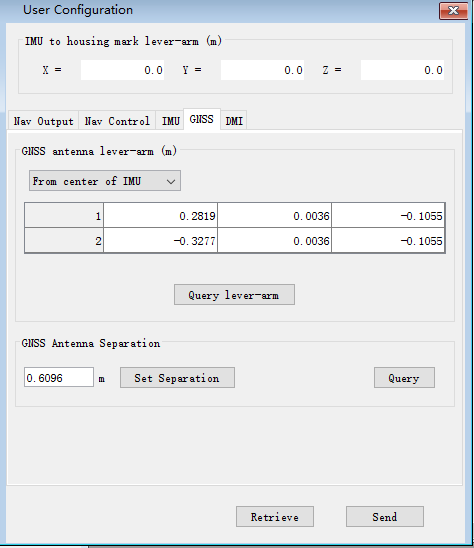
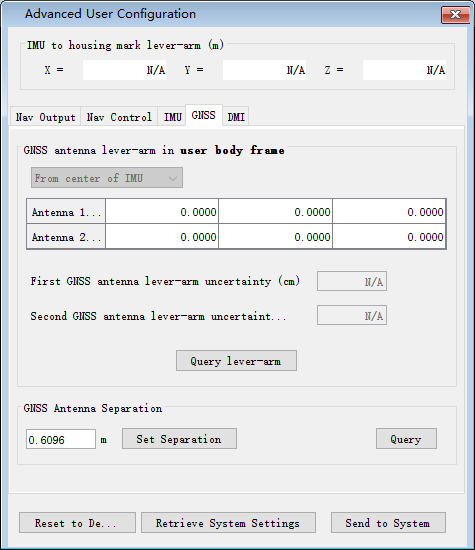
Update manual new file:   media/rover/Choose_output_rate_and_output_messages.PNG new file:   media/rover/Firmware_update_menu_bk.png modified:   media/rover/GNSS_configuration_tab.png new file:   media/rover/GNSS_configuration_tab_bk.png modified:   media/rover/IMU_configuration_tab.png new file:   

diff --git a/user_outline.rst b/user_outline.rst
@@ -49,8 +49,8 @@ At the bottom-right corner of the interface, there are four indicators for the s
 
    Figure 3: Subsystems status indicators
 
-4.2. Product ID and Engine Version
-~~~~~~~~~~~~~~~~~~~~~~~~~~~~~~~~~~~
+4.2. Product ID, Engine and Firmware Version
+~~~~~~~~~~~~~~~~~~~~~~~~~~~~~~~~~~~~~~~~~~~~~
 
 At the bottom-left corner of the interface, the user can see the product ID and the engine version of the system as shown in Figure 4.
 
@@ -87,7 +87,8 @@ GNSS signal status dialog (shown in Figure 6) displays the satellite signal stre
 
 IMU data dialog (show in Figure 7) displays the current acceleration and rotation rate in polyline graphs. If the IMU data doesn’t show up, the user can click the [Turn on IMU data] button to enable the output of the raw IMU data.
 
-The direction of the axes of an IMU can be identified using the accelerometer signal. When an accelerometer is placed in upward direction on a level surface, its output should be approximately 9.8 m/s2. On the other hand, if it is place in downward direction, the output should be -9.8m/s2. The positive direction of all three axes of an IMU can be identified this way.
+The direction of the axes of an IMU can be identified using the accelerometer signal. When an accelerometer is placed in upward direction on a level surface, its output should be approximately 9.8 m/s2. On the other hand, if it is place in downward direction, the output should be -9.8m/s2. Hence, for the plot in Figure 7, the positive
+z-axis is positing downward. The positive direction of all three axes of an IMU can be identified this way.
 
 4.6. Trajectory
 ~~~~~~~~~~~~~~~~~~~~~~~~~~~~~~~~~~~
@@ -109,21 +110,66 @@ Trajectory view dialog (shown in Figure 8) displays the current trajectory. The 
 5. User Configuration
 ------------------------
 
-The user can control the behavior of the navigator using the control software. After connecting to the system, choose “System > User Configure” from the menu (shown in Figure 9).
+To get accurate navigation data, the user needs to configure several parameters in the navigation system. The control software provides a basic interface for necessary setup, and also an advanced interface for more detailed configuration.
 
-.. figure:: media/rover/User_configuration_menu.png
+5.1. Basic User Configuration
+~~~~~~~~~~~~~~~~~~~~~~~~~~~~~~~~
+
+Basic user configuration dialog is used to set up the orientation of the navigation system relative to the vehicle and the position of the antennas. Once these are set up, the system can output correct position, velocity and attitude information of the vehicle.
+
+Basic user configuration can be opened by choosing “System > Basic User Configuration”. The interface is shown in Figure 9.
+
+.. figure:: media/rover/Set_up_the_orientation_of_the_navigation_system.PNG
    :scale: 100 %
    :align: center
 
-   Figure 9: User configuration menu
+   Figure 9: Set up the orientation of the navigation system
 
-5.1. Output Control
-~~~~~~~~~~~~~~~~~~~~~~~~~~~~
+The first step is to set up the orientation of the sensor relative to the vehicle. The user first chooses the direction of the IMU X-axis relative to the user body frame. And then choose the direction of the IMU Y and Z.
 
-The user can do the followings in the navigation output control tab shown in Figure 10:
+For a vehicle, the user body frame is defined in Figure 10. And IMU frame is marked on the case.
+
+.. figure:: media/rover/User_body_frame_definition.PNG
+   :scale: 100 %
+   :align: center
+
+   Figure 10: User body frame definition
+
+Next step is to setup the position of the antennas (shown in Figure 11). The user needs to measure the coordinates of the two antennas in the user body frame with the origin at the case top center. And then input the coordinates into the dialog. The user also needs to measure the distance between two antenna centers and input the measurement into the dialog.
+
+.. figure:: media/rover/Set_up_the_position_of_the_two_antennas.PNG
+   :scale: 100 %
+   :align: center
+
+   Figure 11: Set up the position of the two antennas
+
+The final step is to choose the max output rate and turn on/off output messages (shown in Figure 12). Max output rate is the output rate of the compact navigation message (message 13). The user can adjust the data rate of this message. The detailed definition and rate of all messages can be found in Aceinna Reference Manual.
+
+.. figure:: media/rover/Choose_output_rate_and_output_messages.PNG
+   :scale: 100 %
+   :align: center
+
+   Figure 12: Choose output rate and output messages
+
+5.2. Advanced User Configuration
+~~~~~~~~~~~~~~~~~~~~~~~~~~~~~~~~~
+
+Advanced user configuration dialog contains more detailed configurations of the system. To open the dialog, the user chooses “System > User Configure” from the menu (shown in Figure 13). The available configurations are shown below. 
+
+.. figure:: media/rover/User_configuration_menu.PNG
+   :scale: 100 %
+   :align: center
+
+   Figure 13: User configuration menu
+
+5.2.1. Output Control
+>>>>>>>>>>>>>>>>>>>>>>>>
+
+The user can do the followings in the navigation output control tab shown in Figure 14:
 
 - Specify the navigation output position. The user can choose from the center of the IMU or the cross-mark on top of the IMU housing.
 - If the static position pinning is enabled, the system will output a fixed position during a static period detected by the GNSS. Note that there is a chance that the system can miss the detection if the signal quality becomes weak.
+- Specify the smooth transition interval to RTK_FIXED.
 - Choose ICD messages for output. Pay specific attention when choosing high-rate outputs as outputting multiple high-rate messages can saturate the communication port.
 - Check the current output position offset and whether the static position pinning is enabled in the system with the [Query] button.
 
@@ -131,12 +177,12 @@ The user can do the followings in the navigation output control tab shown in Fig
    :scale: 100 %
    :align: center
 
-   Figure 10: Navigation output control tab
+   Figure 14: Navigation output control tab
 
-5.2. Navigation Control
-~~~~~~~~~~~~~~~~~~~~~~~~~~~~
+5.2.2. Navigation Control
+>>>>>>>>>>>>>>>>>>>>>>>>>>>>>
 
-The user can control the behavior of the navigation in the tab shown in Figure 11.
+The user can control the behavior of the navigation in the tab shown in Figure 15.
 
 The user can enable initialization of heading from the GNSS velocity. To activate this option, the x-axis of the user body frame must be aligned with the forward direction of the vehicle. See “Install Parameters” tab to set the transformation from the IMU frame to the user body frame. Also, the minimum speed for the heading initialization can be specified.
 
@@ -146,12 +192,12 @@ The navigation error keeps growing if no aiding source is available. The system 
    :scale: 100 %
    :align: center
 
-   Figure 11: Navigation control tab
+   Figure 15: Navigation control tab
 
-5.3. IMU
-~~~~~~~~~~~~~~~~~~~~~~~~~~~~
+5.2.3. IMU Setup
+>>>>>>>>>>>>>>>>>>>>>
 
-In the “IMU” tab (shown in Figure 12), the user can do the followings :
+In the “IMU” tab (shown in Figure 16), the user can do the followings :
 
 - Specify the matrix for the transformation from the IMU frame to the user body frame. Please refer to the detailed  `Transformation Matrix <ref_outline.html#the-imu-frame-and-the-body-frame>`_ in reference manual.
 
@@ -161,14 +207,12 @@ In the “IMU” tab (shown in Figure 12), the user can do the followings :
    :scale: 100 %
    :align: center
 
-   Figure 12: IMU configuration tab
+   Figure 16: IMU configuration tab
 
-5.4. GNSS
-~~~~~~~~~~~~~~~~~~~~~~~~~~~~
+5.2.4. GNSS Setup
+>>>>>>>>>>>>>>>>>>>>>>>
 
-Note that the lever-arms to be entered shall be in meters from the cross-mark on top of the IMU housing to each antenna’s phase center in the user body frame.
-
-In the “GNSS” tab (shown in Figure 13), the user can do the followings :
+In the “GNSS” tab (shown in Figure 17), the user can do the followings :
 
 - Set the lever-arms of the GNSS antennas. Note that the lever-arms to be entered shall be in meters from the cross-mark on top of the IMU housing to the antennas phase center in the user body frame.
 - Set the separation between two GNSS antennas, which will aid the carrier-phase ambiguity resolution for the attitude determination.
@@ -179,12 +223,12 @@ In the “GNSS” tab (shown in Figure 13), the user can do the followings :
    :scale: 100 %
    :align: center
 
-   Figure 13: GNSS configuration tab
+   Figure 17: GNSS configuration tab
 
 6. NTRIP Client 
 ------------------------
 
-The user can configure the NTRIP client settings using the NTRIP Client settings dialog (shown in Figure 14). To open the dialog, choose “System > NTRIP Client” from the menu shown in Figure 15. After all information is entered, press the [Set] button to configure the NTRIP client information. After seeing a message box with “Configuration finished”, restart the system to use the new NTRIP client settings. The user can also [Query] the current NTRIP client settings of the system. To get the settings, click the [Query] button in the NTRIP Client dialog and the information will show up.
+The user can configure the NTRIP client settings using the NTRIP Client settings dialog (shown in Figure 18). To open the dialog, choose “System > NTRIP Client” from the menu shown in Figure 19. After all information is entered, press the [Set] button to configure the NTRIP client information. After seeing a message box with “Configuration finished”, restart the system to use the new NTRIP client settings. The user can also [Query] the current NTRIP client settings of the system. To get the settings, click the [Query] button in the NTRIP Client dialog and the information will show up.
 
 If user use "rtk2go.com" as server, the default password is "BETATEST".
 
@@ -194,30 +238,28 @@ Previous NTRIP settings will be stored in the table below. The user can reuse pr
    :scale: 100 %
    :align: center
 
-   Figure 14: NTRIP client settings dialog
+   Figure 18: NTRIP client settings dialog
 
 .. figure:: media/rover/NTRIP_Client_menu.png
    :scale: 100 %
    :align: center
 
-   Figure 15: NTRIP Client menu
+   Figure 19: NTRIP Client menu
 
 7. Firmware Update 
 ------------------------
-
-The user can update the firmware of the system by uploading the latest firmware file provided by Aceinna. To upload the firmware file, choose “System > Firmware Update” (shown in Figure 16). In the file selection dialog shown in Figure 17, browse the firmware file and click the [Upload] button. Firmware file upload will take a few minutes. Please wait until the “Firmware Update finished” message shows up. The user can see the current progress at the bottom. To cancel the firmware update, close the “Upload File” dialog.
 
 .. figure:: media/rover/Firmware_update_menu.png
    :scale: 100 %
    :align: center
 
-   Figure 16: Firmware update menu
+   Figure 20: Firmware update menu
 
 .. figure:: media/rover/Firmware_file_selection.png
    :scale: 100 %
    :align: center
 
-   Figure 17: Firmware file selection
+   Figure 21: Firmware file selection
 
 8. Tools
 ------------------------
@@ -231,18 +273,18 @@ The user can log binary data from the system using the Export dialog by choosing
 
 Before logging, make sure that the software has opened the right port and the status of the subsystems IMU, GNSS, and PPS are on at the bottom-right hand corner.
 
-To choose a folder to save the data, click the [Browse] button. To log the data, click [Start Export] button in Figure 18. To finish logging, click the [Stop Export] button then a message about the saved data file name will show up. The file name convention is yyyy_mm_dd_HH_MM_SS.dat, e.g. 2018_02_09_02_36_34.dat.
+To choose a folder to save the data, click the [Browse] button. To log the data, click [Start Export] button in Figure 22. To finish logging, click the [Stop Export] button then a message about the saved data file name will show up. The file name convention is yyyy_mm_dd_HH_MM_SS.dat, e.g. 2018_02_09_02_36_34.dat.
 
 .. figure:: media/rover/Data_export_dialog.png
    :scale: 100 %
    :align: center
 
-   Figure 18: Data export dialog
+   Figure 22: Data export dialog
 
 8.2. Decode Data
 ~~~~~~~~~~~~~~~~~~~~~~~~~~~~
 
-The user can decode the logged data using the decoder provided by the control software. The decoder (shown in Figure 19) is available by choosing “Tools > Decode” menu. To decode a file, use the [Browse] button to find the file for decoding and then press the [Decode] button. Usually, the decode takes a few seconds to finish. For a large file, it may take up to a minute. Please wait until it is finished.
+The user can decode the logged data using the decoder provided by the control software. The decoder (shown in Figure 23) is available by choosing “Tools > Decode” menu. To decode a file, use the [Browse] button to find the file for decoding and then press the [Decode] button. Usually, the decode takes a few seconds to finish. For a large file, it may take up to a minute. Please wait until it is finished.
 
 The decoded results will be stored in the same folder as the data files and consist of three files: *kf.txt, *nav.txt and *.kml. The *kf.txt file stores Kalman Filter message. The *nav.txt file stores the high-rate compact navigation messages. Lastly,*.kml file stores the trajectory that can be viewed in Google Earth software.
 
@@ -254,48 +296,66 @@ The user can also set the output decimation rate to adjust the density of the po
    :scale: 100 %
    :align: center
 
-   Figure 19: Data decode dialog
+   Figure 23: Data decode dialog
 
 8.3. Zero Velocity Update
 ~~~~~~~~~~~~~~~~~~~~~~~~~~~~
 
-The user can send Zero Velocity Update (ZUPT) messages when the vehicle is not moving. Specifically, this will improve the navigation system where the GNSS signal is degraded. The user can set and send this message using the Zero Velocity Update dialog at the “Tools > Zero Velocity Update” menu (shown in Figure 20). After setting the horizontal and vertical standard deviation, click [Activate] button to keep sending the message containing these two values. Click [Deactivate] button to stop sending. If both values are set to zero, the message cannot be sent.
+The user can send Zero Velocity Update (ZUPT) messages when the vehicle is not moving. Specifically, this will improve the navigation system where the GNSS signal is degraded. The user can set and send this message using the Zero Velocity Update dialog at the “Tools > Zero Velocity Update” menu (shown in Figure 24). After setting the horizontal and vertical standard deviation, click [Activate] button to keep sending the message containing these two values. Click [Deactivate] button to stop sending. If both values are set to zero, the message cannot be sent.
 
 .. figure:: media/rover/Zero_Velocity_Update_dialog.png
    :scale: 100 %
    :align: center
 
-   Figure 20: Zero Velocity Update dialog
+   Figure 24: Zero Velocity Update dialog
 
 8.4. Static Heading Event
 ~~~~~~~~~~~~~~~~~~~~~~~~~~~~
 
-The user can send a static heading event message to initialize the inertial navigator when the position is available from the GNSS receivers but the heading initialization has difficulties due to degraded GNSS signals. To send the message, the user can use the Static Heading Event dialog at the “Tools > Static Heading Event” menu (shown in Figure 21). After setting the heading, ZUPT RMS, and heading RMS, click [Activate] button to keep sending the message containing these values. Click [Deactivate] button to stop sending. If both of the ZUPT RMS, and heading RMS are set to zero, the message cannot be sent.
+The user can send a static heading event message to initialize the inertial navigator when the position is available from the GNSS receivers but the heading initialization has difficulties due to degraded GNSS signals. To send the message, the user can use the Static Heading Event dialog at the “Tools > Static Heading Event” menu (shown in Figure 25). After setting the heading, ZUPT RMS, and heading RMS, click [Activate] button to keep sending the message containing these values. Click [Deactivate] button to stop sending. If both of the ZUPT RMS, and heading RMS are set to zero, the message cannot be sent.
 
 .. figure:: media/rover/Static_Heading_Event_dialog.png
    :scale: 100 %
    :align: center
 
-   Figure 21: Static Heading Event dialog
+   Figure 25: Static Heading Event dialog
+
+8.5. Static Geo-Pose Event
+~~~~~~~~~~~~~~~~~~~~~~~~~~~~
+
+The user can send a static geo-pose event message to initialize or aid the inertial navigation system when GNSS signals are not available. The static geo-pose event can be opened by choosing “Tools > Static Geo-Pose Event” menu (shown in Figure 26). 
+
+The user needs to input the known position and attitude information. And then click [Activate] button to keep sending these values to aid the navigation system. Click [Deactivate] button to stop sending. 
+
+.. figure:: media/rover/Static_Geo_Pose_Event_Dialog.png
+   :scale: 100 %
+   :align: center
+
+   Figure 26 Static Geo-Pose Event Dialog
+
+8.6. Heading Initialization using an External Sensor
+~~~~~~~~~~~~~~~~~~~~~~~~~~~~
+
+The heading can be initialized using the NMEA message “$HEHDT” which could be generated by other sensors in the user’s vehicle. To use this initialization method, the output port of the user’s sensor needs to be connected to one of the input ports of the Aceinna-Nav system; either UART0 or Ethernet. To enforce this initialization method, please make sure to turn off the option initializing the heading from the GNSS velocity; see Figure 15. 
 
 9. Internal Data Download
 ---------------------------
 
-The rover station system stores the raw sensor data and navigation data, and the file naming convention as follows:
+The system internally stores the raw sensor data and navigation data, of which the naming convention is as follows:
 
 - Raw sensor data: raw_wwww_ssssss.dat
 - Navigation data: nav_wwww_ssssss.dat
 
 Where “wwww” and “ssssss” corresponding to the GPS week number and seconds of the week at the start of the mission.
 
-User could download the internal data using any ftp client following the next steps:
+User can download the internal data using any FTP client, following the next steps:
 
 - Set the computer Ethernet IP address as 192.168.100.xxx where xxx could be any number from 2 to 254, except 97, because the address 192.168.100.97 used as the rover ip address.
     .. figure:: media/rover/ip_setting.png
        :scale: 45 %
        :align: center
     
-       Figure 23: pc ip address setting
+       Figure 27: IP address setting
        
 - Power on the rover station system, then use a FTP client in PC side to connect the system following the configurations, Host name: 192.168.100.97,Port number: 2100,User name: ftp,Password: ftppw. After connection setup successfully, user could see the raw data and navigation data in the FTP client.
 
@@ -324,7 +384,7 @@ The table above is data format of python drive, and could be found in json file(
    :scale: 45 %
    :align: center
 
-   Figure 23: python serial tool usage
+   Figure 28: python serial tool usage
 
 User could run the python script and then upload data to web application user interface,
 for the web application ui, https://developers.aceinna.com/maps
@@ -333,7 +393,7 @@ for the web application ui, https://developers.aceinna.com/maps
   :scale: 38 %
   :align: center
 
-  Figure 24: web application usage
+  Figure 29: web application usage
 
 
 Press the button(Live Time Plot) on the web application ui, the image of live path of the rover station is shown on the screen. Meanwhile, the data will be logged synchronously in folder: python-ins1000-master->data.  
@@ -342,7 +402,7 @@ Press the button(Live Time Plot) on the web application ui, the image of live pa
  :scale: 50 %
  :align: center
 
- Figure 25: real time path demo
+ Figure 30: real time path demo
 
 
 

diff --git a/ref_outline.rst b/ref_outline.rst
@@ -7,7 +7,7 @@ Reference Manual
 INS1000 is an integrated navigation system consisting of an inertial measurement unit (IMU) and other sensors. Thus it can output continuously the position, velocity and attitude information of the vehicle. A dual-antenna GNSS receiver is used as the primary aiding sensor. Also supported is a distance measurement indicator (DMI) which can be attached to a wheel of the vehicle/robot to measure the rotation rate of the wheel. Integration of a DMI would give an improved solution in challenging environments: urban canyons, tunnels or indoor. This document explains how to use the system.
 
 2. The IMU Frame and the Body Frame 
-------------------------
+------------------------------------
 The IMU frame is the frame in which the IMU’s measurement output is generated. The direction of the axes of an IMU can be identified using the accelerometer signal. When an accelerometer is placed in upward direction on a level surface, its output should be approximately 9.8 :math:`m/s^{2}`.On the other hand, if it is place in downward direction, the output should be -9.8 :math:`m/s^{2}`. The positive direction of all three axes of an IMU can be identified this way.
 
 The body frame is the frame in which the inertial navigation solution is generated. The center of the IMU frame coincides with that of the body frame. However, there can be differences in the attitude between the two frames due to physical limitations in the installation of the IMU. For a vehicle, the forward-right-down is typically the body frame of choice. Thus, there will be a rotation matrix :math:`C_{IMU}^{b}` to transform the IMU measurements to the body frame and, for the example below, it is written as
@@ -18,9 +18,9 @@ The body frame is the frame in which the inertial navigation solution is generat
     c_{21}& c_{22} & c_{23}\\ 
     c_{31}& c_{32} & c_{33}
     \end{bmatrix}=\begin{bmatrix}
-    0 & 1 & 0\\ 
-    -1 & 0 & 0 \\ 
-    0 & 0 & 1
+    1 & 0 & 0\\ 
+    0 & -1 & 0 \\ 
+    0 & 0 & -1
     \end{bmatrix}
 
 .. figure:: media/ref/The_IMU_frame_and_the_body_frame.png
@@ -36,7 +36,7 @@ The body frame is the frame in which the inertial navigation solution is generat
 +----------+----------+----------+--------------------------+
 | Forward  | Left     | Up       | [1,0,0; 0,-1,0; 0,0,-1]  |
 +----------+----------+----------+--------------------------+
-| Forward  | Down     | Left     | [1,0,0; 0,-1,0; 0,0,-1]  |
+| Forward  | Down     | Left     | [1,0,0; 0,0,-1; 0,1,0]   |
 +----------+----------+----------+--------------------------+
 | Forward  | Up       | Right    | [1,0,0; 0,0,1; 0,-1,0]   |
 +----------+----------+----------+--------------------------+
@@ -76,14 +76,11 @@ The body frame is the frame in which the inertial navigation solution is generat
 +----------+----------+----------+--------------------------+
 | Down     | Backward | Left     | [0,-1,0; 0,0,-1; 1,0,0]  |
 +----------+----------+----------+--------------------------+
-| Down     | Backward | Left     | [0,-1,0; 0,0,-1; 1,0,0]  |
-+----------+----------+----------+--------------------------+
 | Down     | Left     | Forward  | [0,0,1; 0,-1,0; 1,0,0]   |
 +----------+----------+----------+--------------------------+
 | Down     | Right    | Backward | [0,0,-1; 0,1,0; 1,0,0]   |
 +----------+----------+----------+--------------------------+
   Table 1: List of IMU to body frame transformation matrices
-
 
 3. Measuring Lever Arm
 ------------------------
